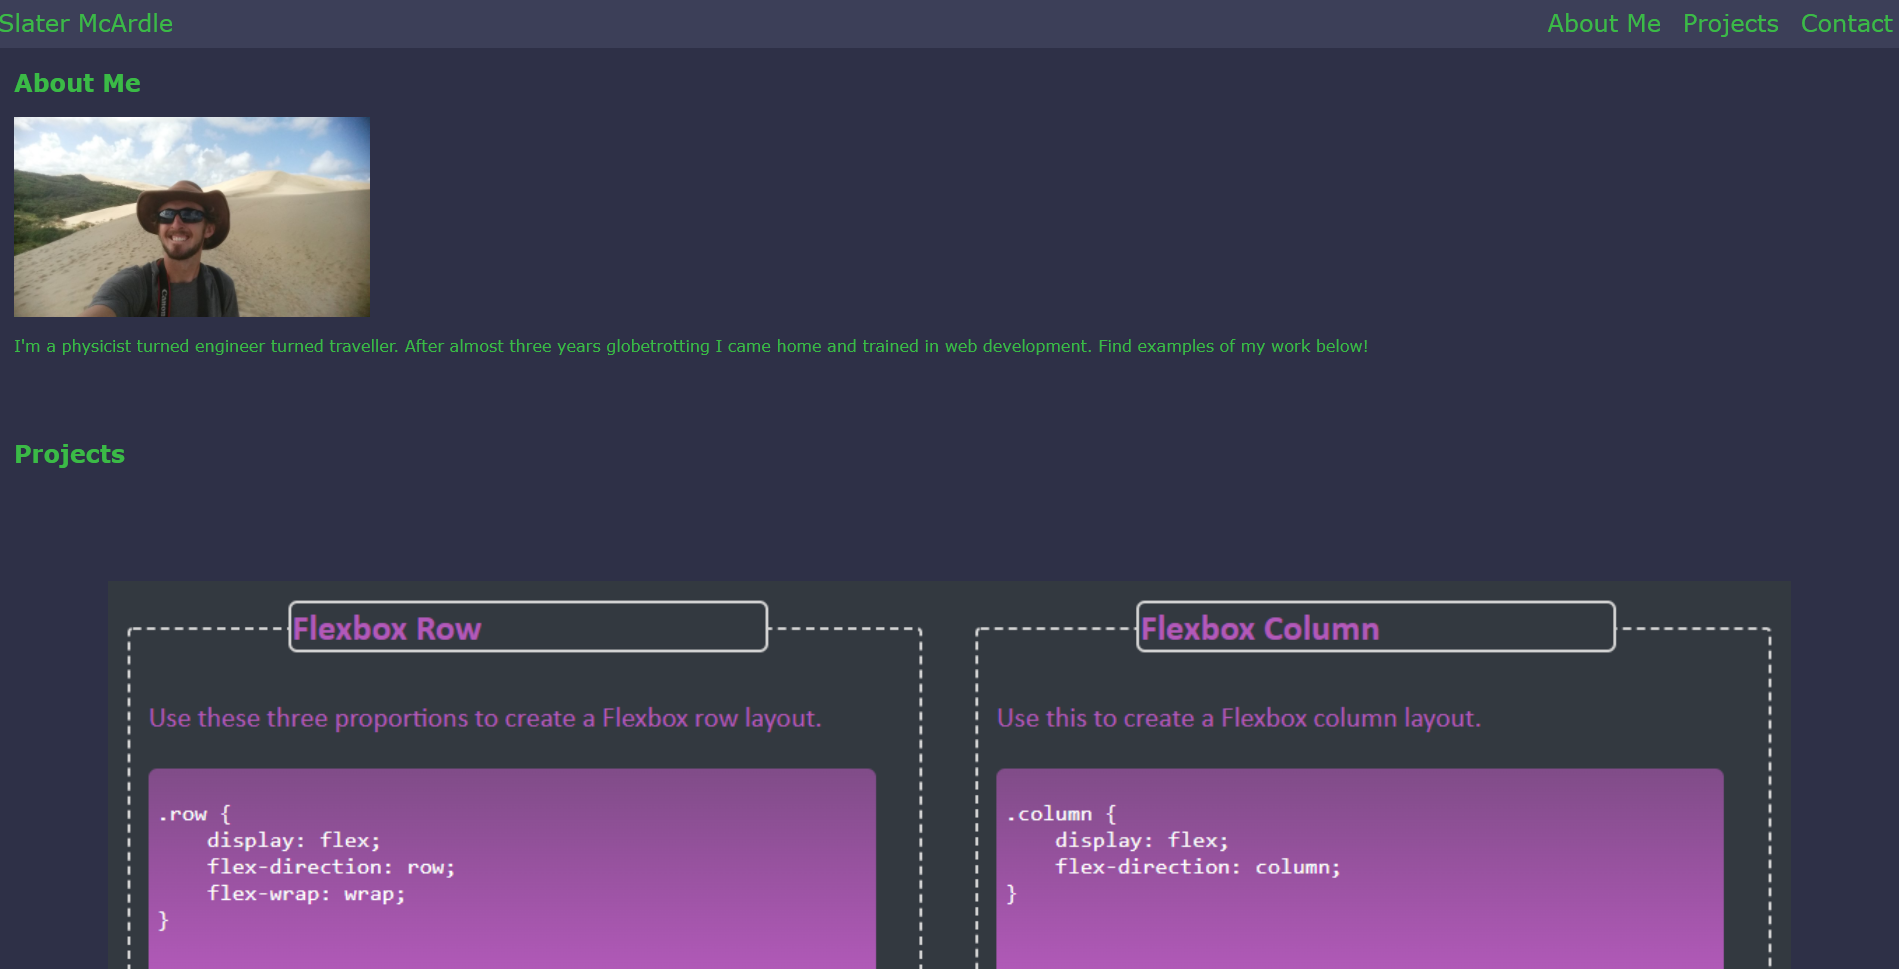
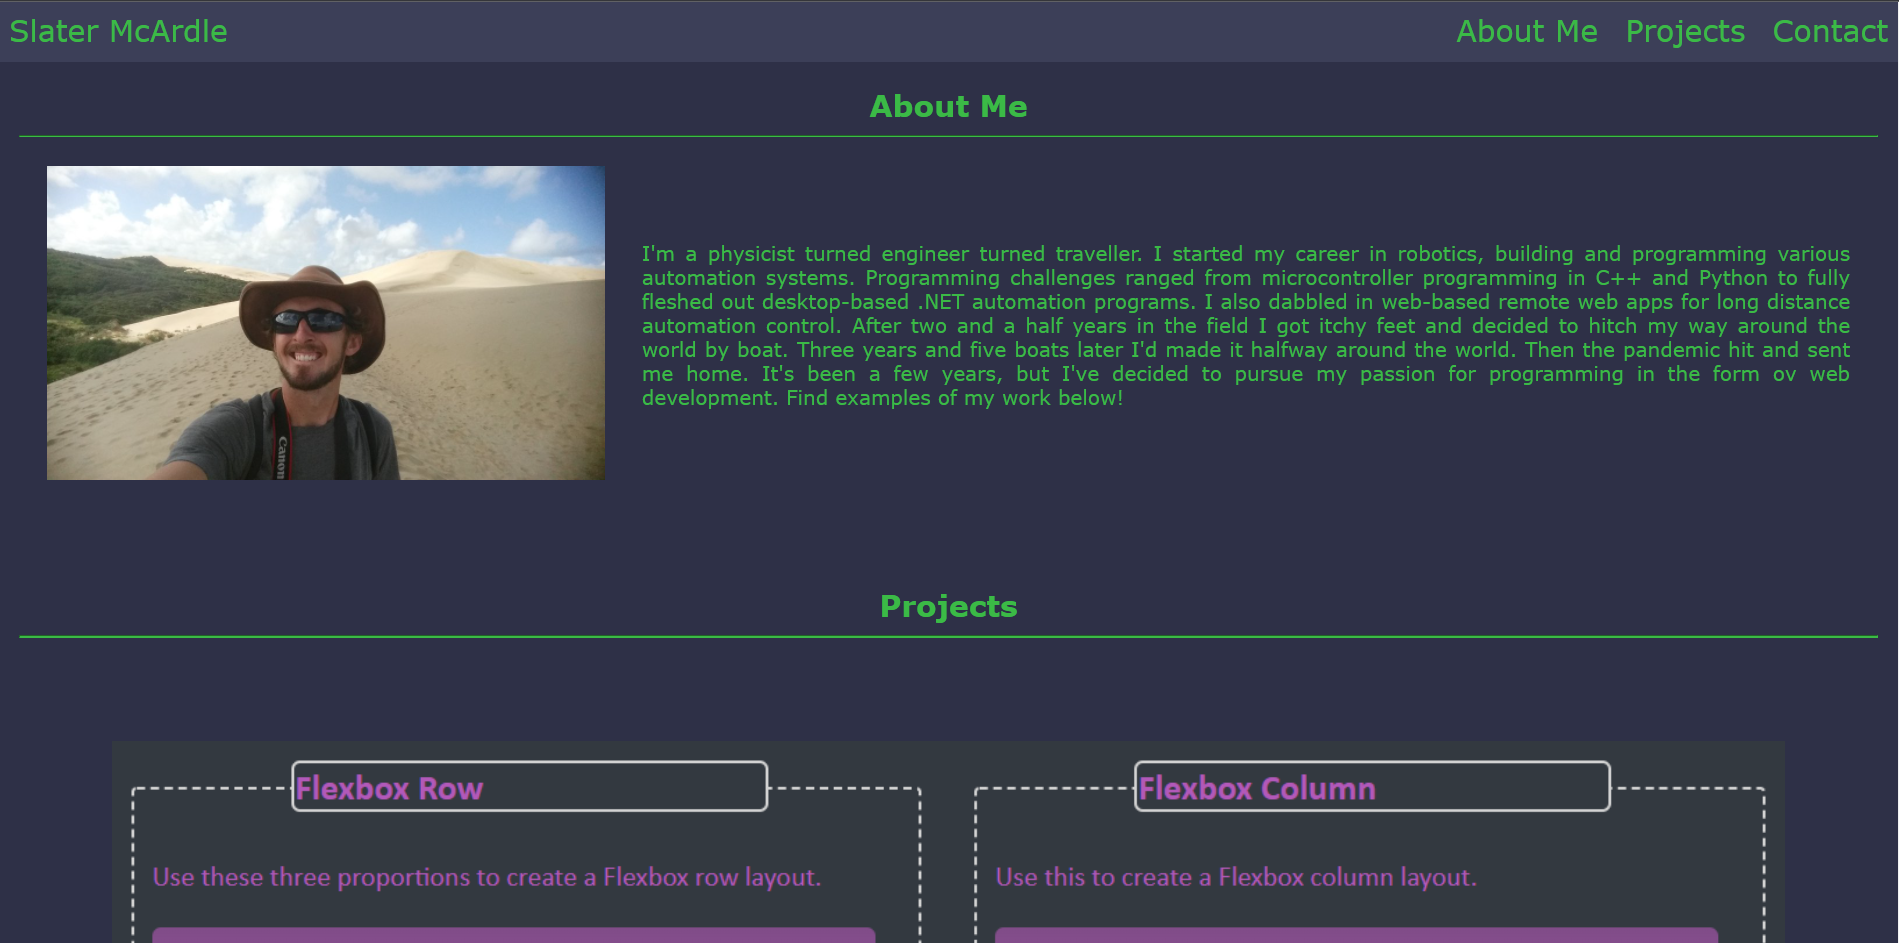
Updated positioning, styling, and responsiveness. Also added more about me content

diff --git a/styles/styles.css b/styles/styles.css
@@ -6,6 +6,7 @@
     --brand-arsenic: #3C3F58;
     --brand-rhythm: #60667c;
     --navbar-height: 3rem;
+    --navbar-height-mini: 4.5rem;
     --transition-time: 1.2s;
 }
 /* Assign universal attributes to the document */
@@ -23,6 +24,17 @@ a {
     font-size: 1.5rem;
     color: var(--brand-keppel);
 }
+/* center up the section headers and give them appropriate spacing */
+h2 {
+    text-align: center;
+    margin-bottom: 0.1rem;
+}
+/* style the themati breaks to the same color as the rest of the outstanding text and force horizontal in a flexbox environment */
+hr {
+    width: 100%;
+    background-color: var(--brand-keppel);
+    border-color: var(--brand-keppel);
+}
 /* Fix the navbar to the top of the page during scroll and style */
 nav {
     position: fixed;
@@ -31,14 +43,17 @@ nav {
     height: var(--navbar-height);
     background-color: var(--brand-arsenic);
 }
+/* force the header left and apply approprate styles and spacing */
 nav > header {
     float: left;
-    margin: 0.5rem auto;
+    margin: 0.5rem;
     font-size: 1.5rem;
 }
+/* force the nav links right (for larger displays */
 nav > ul {
     float: right;
 }
+/* style and space the navbar links */
 nav > ul > li {
     display: inline-block;
     justify-content: right;
@@ -52,6 +67,38 @@ main {
 .container-section {
     padding-top: var(--navbar-height);
 }
+/* set up the about me section as a  flexbox and center everything up */
+#about-me-section {
+    display: flex;
+    flex-direction: row;
+    flex-wrap: wrap;
+    justify-content: center;
+    align-items: center;
+}
+/* ensure the section header is full width in the flexbox */
+#about-me-section > h2 {
+    flex-basis: 100%;
+}
+/* set up the image container flex and include code for the image to be properly contained */
+#about-me-image-container {
+   flex-basis: 30%;
+    position: relative;
+    margin: 1%;
+}
+/* set the paragraph container flex and spacing properties */
+#about-me-text-container {
+    flex-basis: 65%;
+    margin: 1%;
+}
+/* make the paragraph more blocklike */
+#about-me-text-container > p {
+    text-align: justify;
+}
+/* Contain the image within its container at full size */
+#about-me-image-container > img {
+   width: 100%;
+   object-fit: contain;
+}
 /* Customize the portfolio project container to flex */
 #portfolio-section {
     display: flex;
@@ -59,16 +106,16 @@ main {
     flex-wrap: wrap;
     justify-content:center;
 }
+/* Make the first project bigger than the rest */
+#first {
+    flex-basis: 90%;
+}
+/* set the rest of the cards to a standard, 2 column size with plenty of spacing */
 .portfolio-project {
     flex-basis: 40%;
     background-color: var(--brand-arsenic);
     position: relative;
     margin: 5%;
-}
-/* Make the first project bigger than the rest */
-#first {
-    flex-basis: 90%;
-    position: relative;
 }
 /* Make the entire portfolio project section a clickable link */
 .portfolio-project > a {
@@ -116,31 +163,70 @@ main {
 #portfolio-section > h2 {
     flex-basis: 100%;
 }
-#about-me-section > img {
-    height: 200px;
-}
 /* Adjust the size of the image-icons in the contact links */
 #contact-section img {
     width: 1.2rem;
     height: 1.2rem;
 }
-/* Position and style the contact section links */
+/* set up the contact section link list as a flexbox */
+#contact-section > ul {
+   display: flex;
+   flex-direction: row;
+   flex-wrap: wrap;
+   justify-content: center;
+}
+/* Position and style the contact section links with flexbox */
 #contact-section > ul > li {
-    display: inline-block;
-    justify-content: left;
-    margin-right: 2rem;
-    margin-bottom: 2rem;
-    background-color: var(--brand-rhythm);
+    list-style-type: none;
+    background-color: var(--brand-outer-space);
     border-radius: 5px;
-    padding: 0.2rem;
+    flex-basis: 31%;
+    margin: 1%;
+    text-align: center;
 }
 /* Restyle footer link font size to match surrounding text */
 footer a {
     font-size: 1em;
 }
-/* Below a certain screen size, make all of the portfolio projects one column, keep the first project larger */
+/* Below a certain screen size, adjust for small displays */
 @media screen and (max-width: 730px) {
+    /* Set all of the portfolio projects in one column, and make them larger */
     .portfolio-project {
         flex-basis: 60%;
+    }
+    /* Make the about me image and paragraph aligned vertically and centered */
+    #about-me-section {
+        justify-content: center;
+    }
+    #about-me-image-container {
+        flex-basis: 70%;
+    }
+    #about-me-text-container {
+        flex-basis: 70%;
+        margin: 1% 0;
+    }
+    #contact-section > ul > li {
+        flex-basis: 90%;
+    }
+}
+/* Adjust the navbar for extra small displays. */
+@media screen and (max-width: 570px) {
+   /* make it taller to accomodate the two rows */
+    nav {
+        height: var(--navbar-height-mini);
+    }
+    /* make the header and link list into two rows */
+    nav > header {
+        width: 100%;
+        margin: 0 auto;
+        text-align: center;
+    }
+    nav > ul {
+        width: 100%;
+        text-align: center;
+    }
+    /* adjust the container padding to stay out from under the taller navbar on link clicks. */
+    .container-section {
+        padding-top: var(--navbar-height-mini);
     }
 }

diff --git a/index.html b/index.html
@@ -17,7 +17,8 @@
     <nav>
         <!-- Navbar title -->
         <header>
-            Slater McArdle
+            <!-- Make the header a link to the top of the page -->
+            <a href="#about-me-section">Slater McArdle</a>
         </header>
         <!-- Navigation links -->
         <ul>
@@ -31,14 +32,24 @@
         <!--About Me container-->
         <section id="about-me-section" class="container-section">
             <h2>About Me</h2>
-            <img src="./images/me.jpg" alt="Slater's smiling face with a big hat and sunglasses. A sand dune in the background.">
-            <p>
-                I'm a physicist turned engineer turned traveller. After almost three years globetrotting I came home and trained in web development. Find examples of my work below!
-            </p>
+            <hr>
+            <!-- wrap the image and paragraph in containers to allow easier flexbox control -->
+            <div id="about-me-image-container">
+                <img src="./images/me.jpg" alt="Slater's smiling face with a big hat and sunglasses. A sand dune in the background.">
+            </div>
+            <div id="about-me-text-container">
+                <p>
+                    I'm a physicist turned engineer turned traveller. I started my career in robotics, building and programming various automation systems. 
+                    Programming challenges ranged from microcontroller programming in C++ and Python to fully fleshed out desktop-based .NET automation programs. 
+                    I also dabbled in web-based remote web apps for long distance automation control. After two and a half years in the field I got itchy feet and decided to hitch my way around the world by boat. Three years and five boats later I'd made it halfway around the world.
+                    Then the pandemic hit and sent me home. It's been a few years, but I've decided to pursue my passion for programming in the form ov web development. Find examples of my work below!
+                </p>
+            </div>
         </section>
         <!-- Projects container -->
         <section id="portfolio-section" class="container-section">
             <h2>Projects</h2>
+            <hr/>
             <!-- Generate flexible cards for each of the projects -->
             <section id="first" class="portfolio-project">
                 <a href="https://github.com/" target="_blank"></a>
@@ -116,6 +127,7 @@
         <!--Contact container-->
         <section id="contact-section" class="container-section">
             <h2>Contact</h2>
+            <hr/>
             <ul>
                 <!-- Include icons for each of the contact links -->
                 <li><img src="./images/GitHub-Mark-32px.png"> <a href="https://github.com/WindWalker-92">Github</a></li>

diff --git a/README.md b/README.md
@@ -21,3 +21,5 @@ Screenshots:
 ![ScreenShot](./images/screenshot-02.png)
 ![ScreenShot](./images/screenshot-03.png)
 ![ScreenShot](./images/screenshot-04.png)
+![ScreenShot](./images/screenshot-05.png)
+![ScreenShot](./images/screenshot-06.png)
